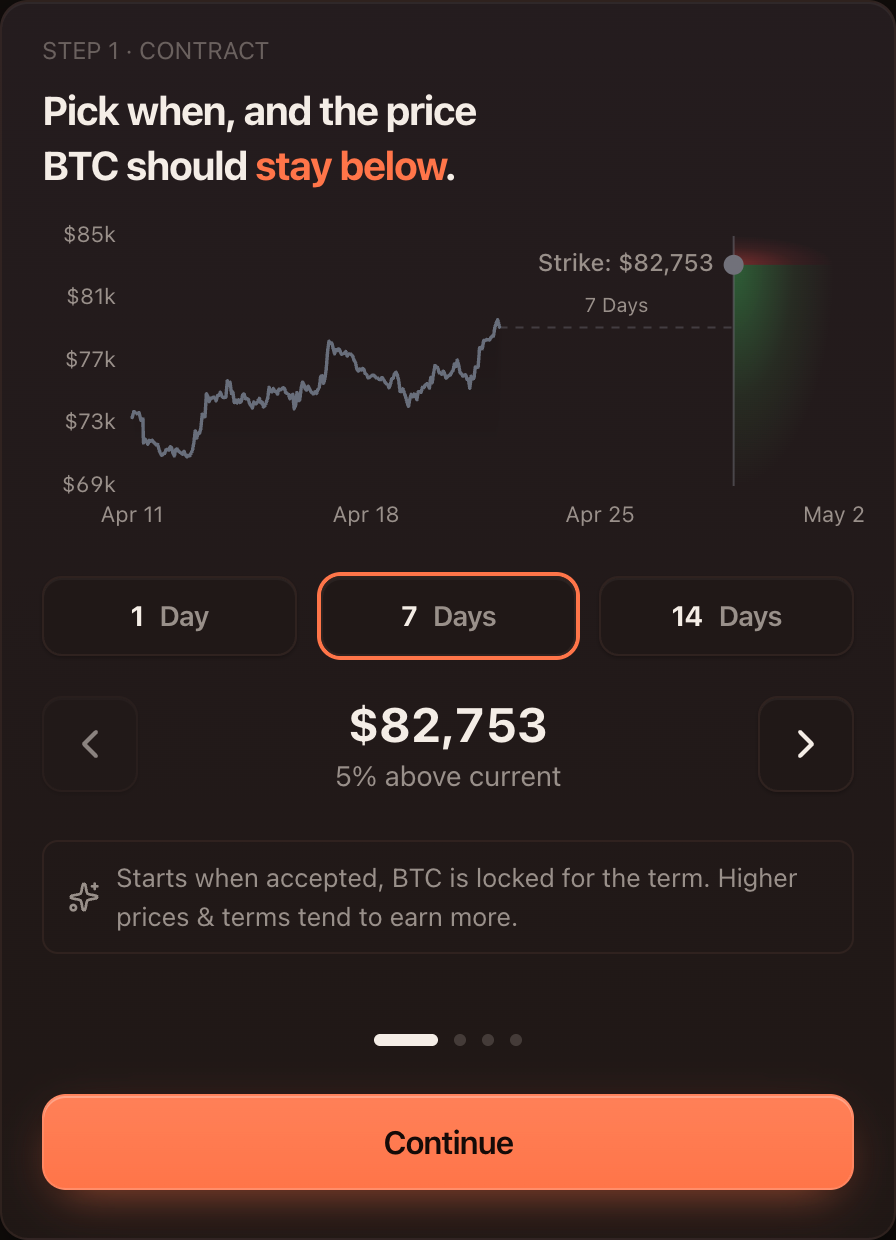
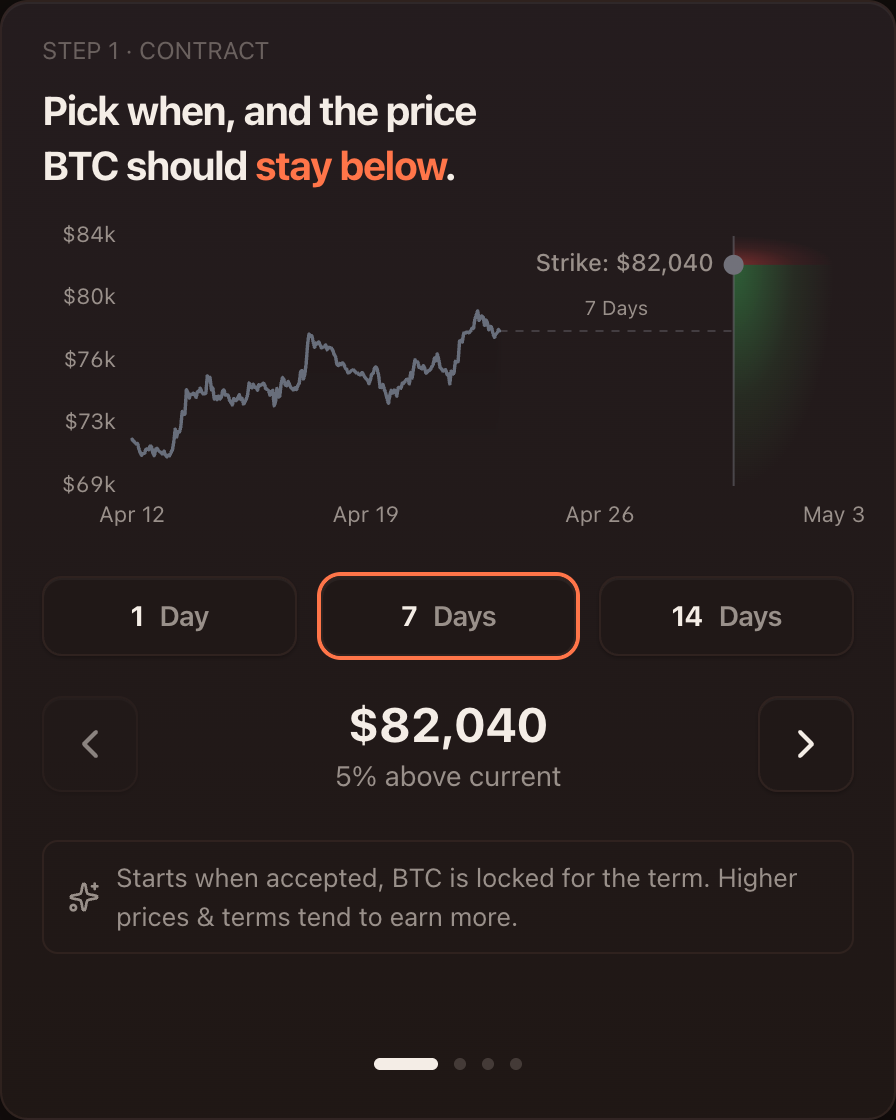
new screenshots

diff --git a/apps/volumetric_web/src/app/[locale]/_components/HeroSection.tsx b/apps/volumetric_web/src/app/[locale]/_components/HeroSection.tsx
@@ -41,7 +41,7 @@ export function HeroSection() {
                 src="/landing/demo-light.png"
                 alt={t("headline")}
                 width={896}
-                height={1240}
+                height={1120}
                 priority
                 sizes="(min-width: 768px) 40vw, 80vw"
                 className="block dark:hidden w-full h-auto drop-shadow-2xl rounded-lg md:rounded-xl overflow-clip"
@@ -50,7 +50,7 @@ export function HeroSection() {
                 src="/landing/demo-dark.png"
                 alt={t("headline")}
                 width={896}
-                height={1240}
+                height={1120}
                 priority
                 sizes="(min-width: 768px) 40vw, 80vw"
                 className="hidden dark:block w-full h-auto drop-shadow-2xl rounded-lg md:rounded-xl overflow-clip"
